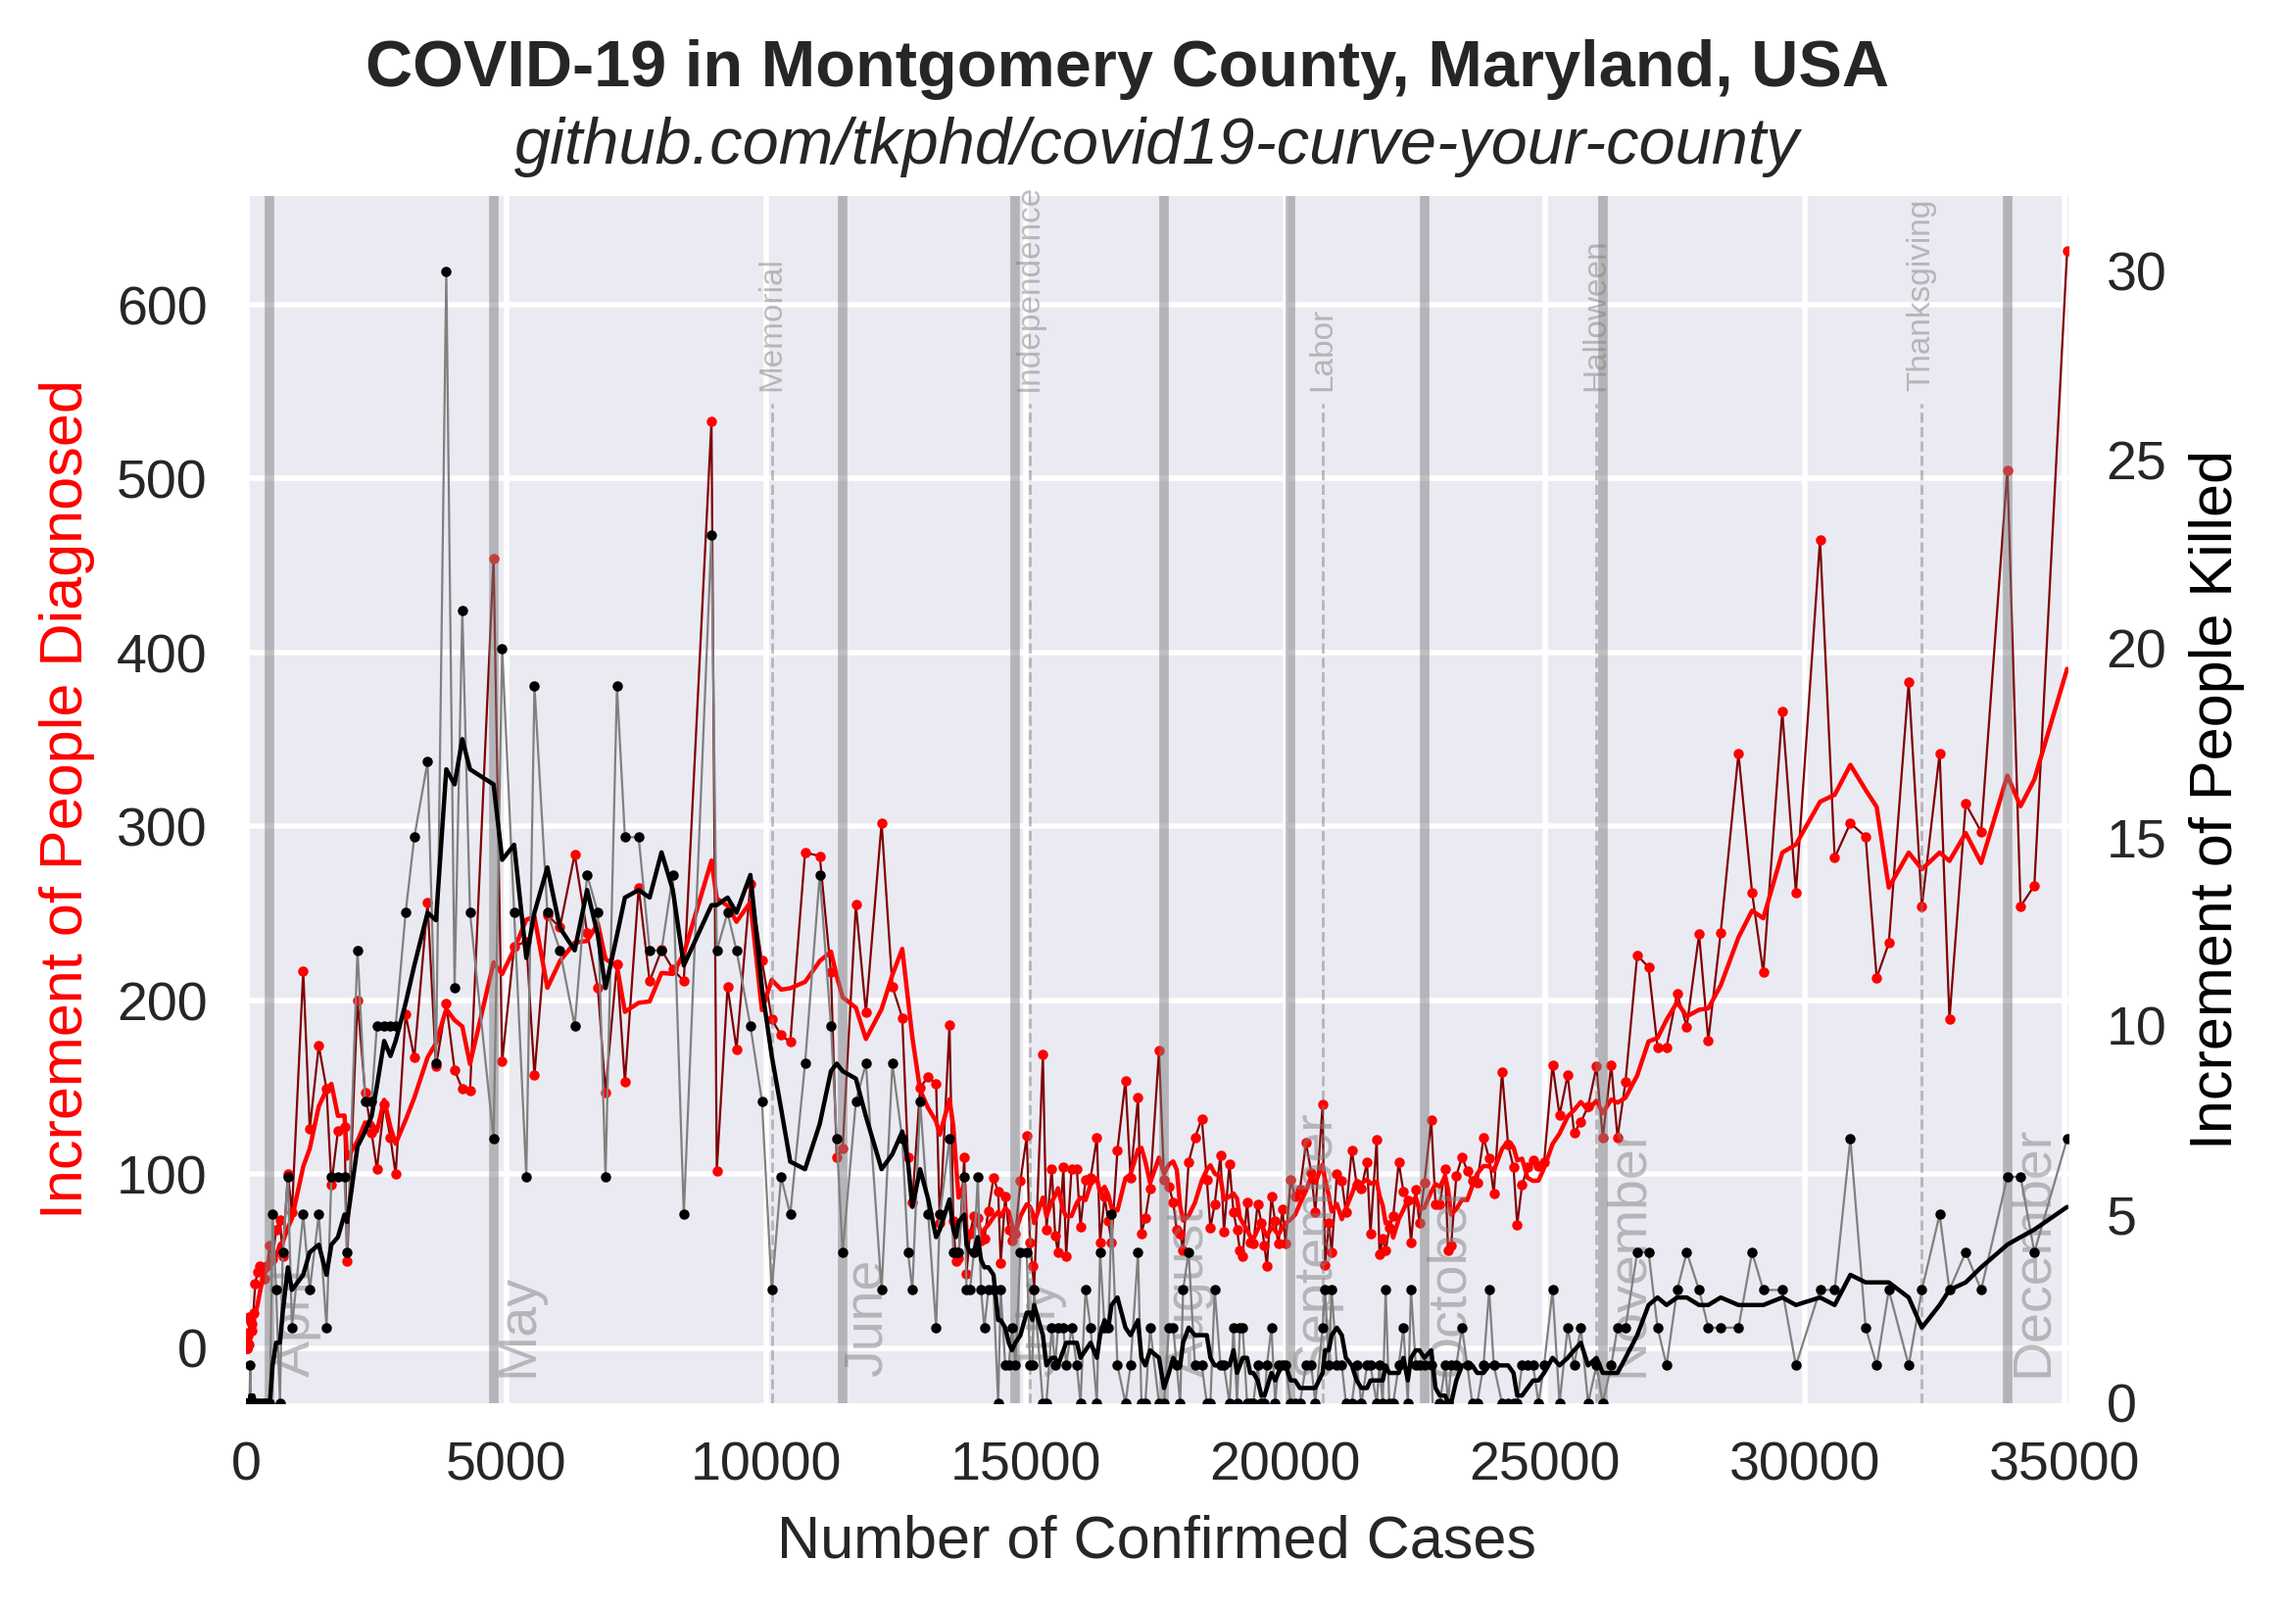
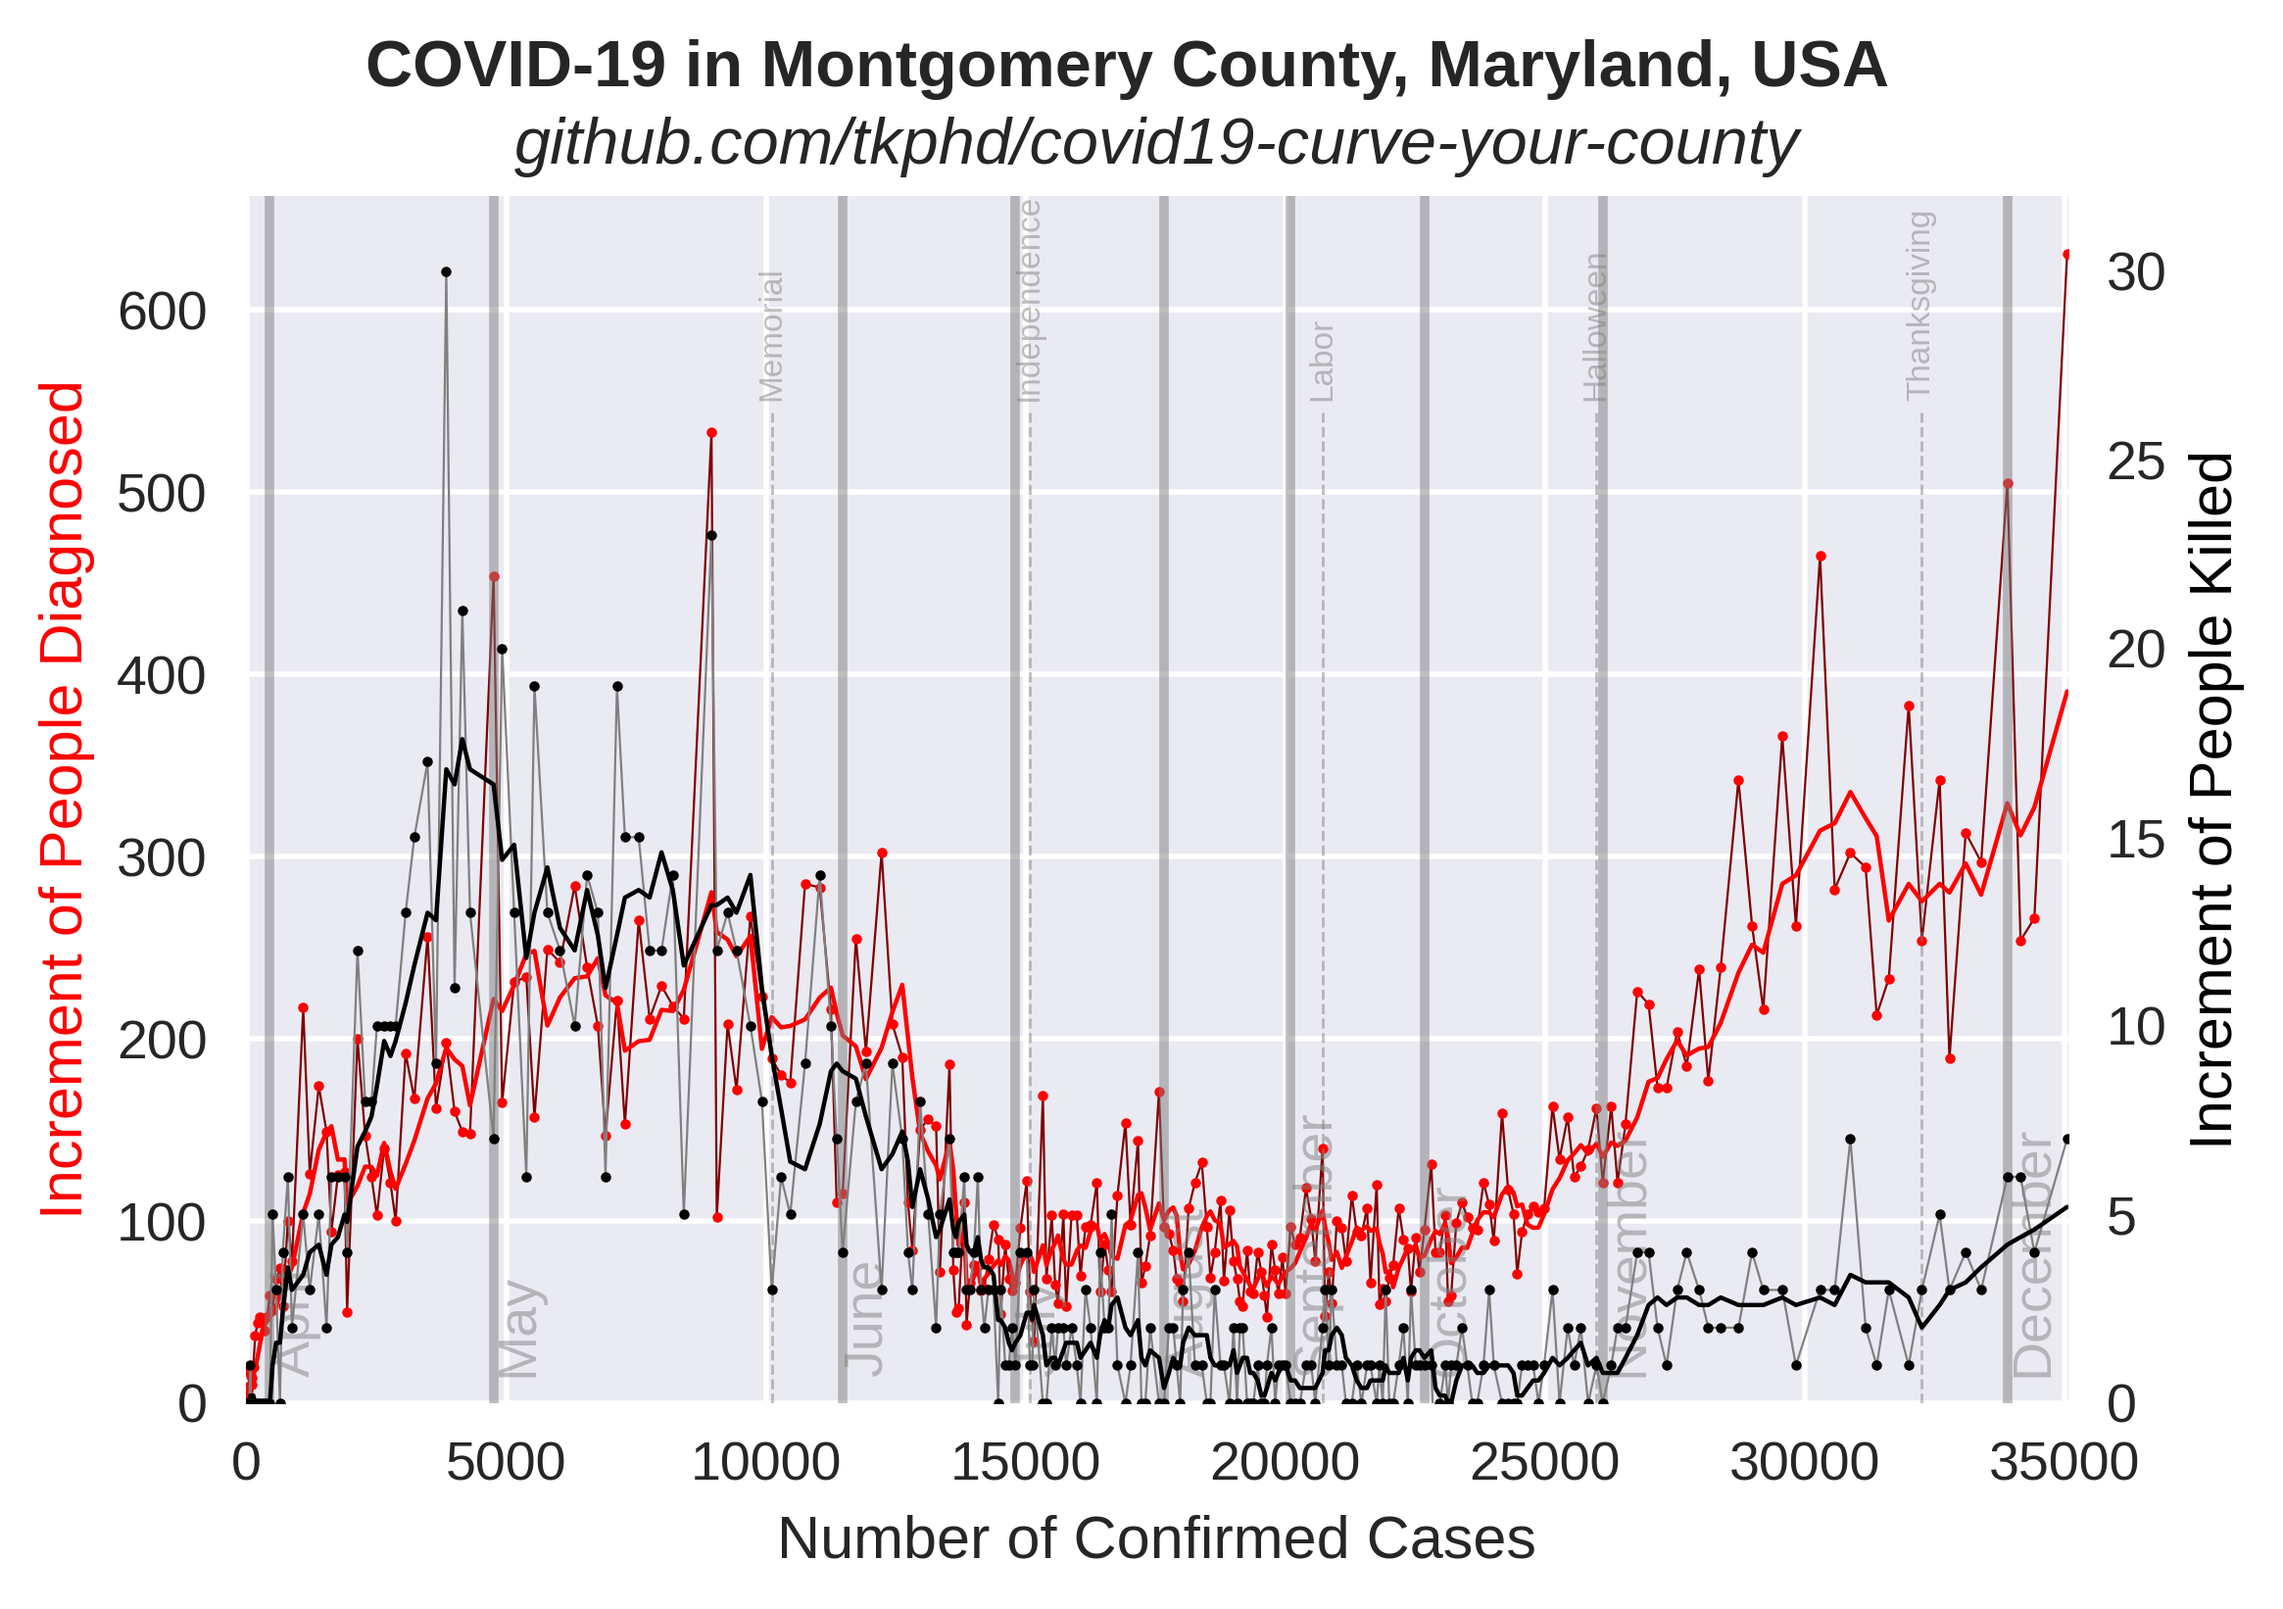
adjust axis & date-labels

diff --git a/exponential.py b/exponential.py
@@ -188,12 +188,12 @@ plt.ylim([-50, ymax])
 # Label months
 for month, day in months:
     plt.plot((day, day), (0, ymax), c="gray", alpha=0.5, zorder=1)
-    plt.text(day + 1, 300, month, rotation=90, c="gray", alpha=0.5, zorder=1)
+    plt.text(day + 1, 2000, month, rotation=90, c="gray", alpha=0.5, zorder=1)
 
 # Label holidays
 for holiday, day in holidays:
-    plt.plot((day, day), (0, ymax - 6000), c="gray", linestyle='dashed', linewidth=0.5, alpha=0.5, zorder=1)
-    plt.text(day - 2.5, ymax - 5500, holiday, rotation=90, c="gray", fontsize=6, alpha=0.5, zorder=1)
+    plt.plot((day, day), (0, ymax - 6500), c="gray", linestyle='dashed', linewidth=0.5, alpha=0.5, zorder=1)
+    plt.text(day - 2.5, ymax - 6000, holiday, rotation=90, c="gray", fontsize=6, alpha=0.5, zorder=1)
 
 # Save figure
 plt.legend(loc="center left")
@@ -231,6 +231,9 @@ ax1.plot(
     label="{0}-day avg".format(window_width),
 )
 
+ymin, ymax = plt.ylim()
+ax1.set_ylim([0, ymax])
+
 key = "killed"
 ax2 = ax1.twinx()
 ax2.set_ylim([0, 32])
@@ -264,8 +267,8 @@ for month, day in months:
 # Label holidays
 for holiday, day in holidays:
     cases = data.loc[day, "diagnosed"]
-    plt.plot((cases, cases), (0, 26.5), c="gray", linestyle='dashed', linewidth=0.5, alpha=0.5, zorder=1)
-    plt.text(cases - 300, 27, holiday, rotation=90, c="gray", fontsize=6, alpha=0.5, zorder=1)
+    plt.plot((cases, cases), (0, 26.25), c="gray", linestyle='dashed', linewidth=0.5, alpha=0.5, zorder=1)
+    plt.text(cases - 300, 26.75, holiday, rotation=90, c="gray", fontsize=6, alpha=0.5, zorder=1)
 
 plt.savefig("increment.png", dpi=400, bbox_inches="tight")
 plt.close()
